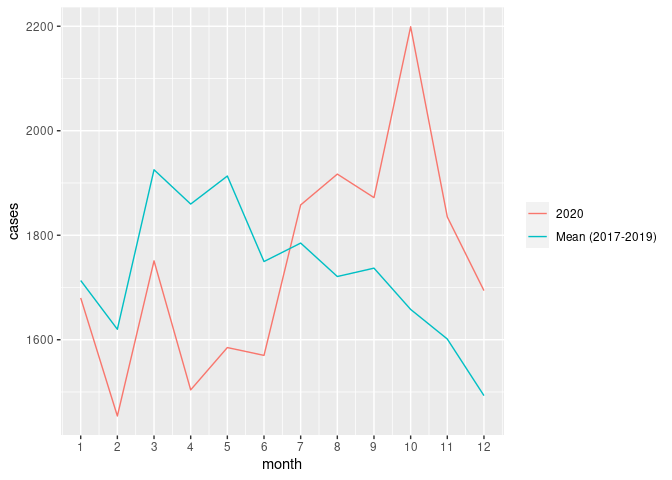
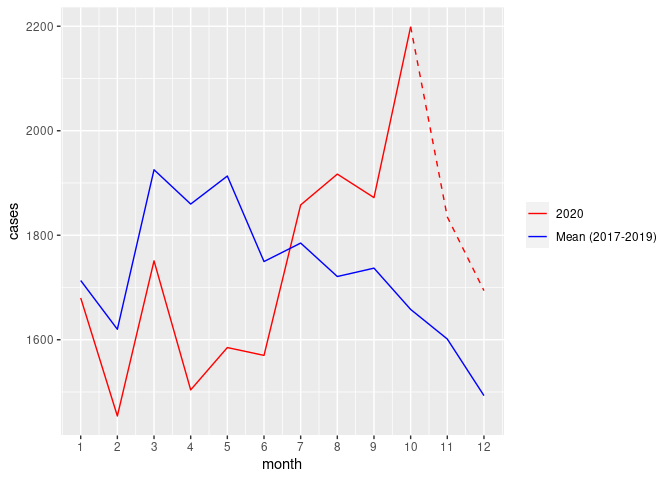
make the updated part a dashed line

diff --git a/README.md b/README.md
@@ -10,7 +10,7 @@ Mitsuo Shiota
   - [Suicide cases are bouncing back, but not as fast as the program
     suggests](#suicide-cases-are-bouncing-back-but-not-as-fast-as-the-program-suggests)
 
-Updated: 2021-01-22
+Updated: 2021-01-24
 
 ## Motivation
 
@@ -57,13 +57,14 @@ which requires registration, and replicate the chart below, though the
 original chart did not include November and December 2020. Look at the
 2020 line, and find it exceeds the Mean (2017-2019) line since July.
 
-Yes, the 2020 line shows a rapid surge. But, why was it significantly
-below the Mean (2017-2019) line from April to June in the first place? I
-remember National Declaration of State of Emergency to fight Covid-19
-was effective from April 15 to May 24. As “month” indicates the timing
-of discovery, not of commitment, in the National Police Agency data, I
-suspect some cases were not discovered in the emergency period, and were
-discovered later. This may explain some part of excess since July.
+Yes, the 2020 line shows a rapid surge up to October. But, why was it
+significantly below the Mean (2017-2019) line from April to June in the
+first place? I remember National Declaration of State of Emergency to
+fight Covid-19 was effective from April 15 to May 24. As “month”
+indicates the timing of discovery, not of commitment, in the National
+Police Agency data, I suspect some cases were not discovered in the
+emergency period, and were discovered later. This may explain some part
+of excess from July to October.
 
 ![](README_files/figure-gfm/replicate-1.png)<!-- -->
 
